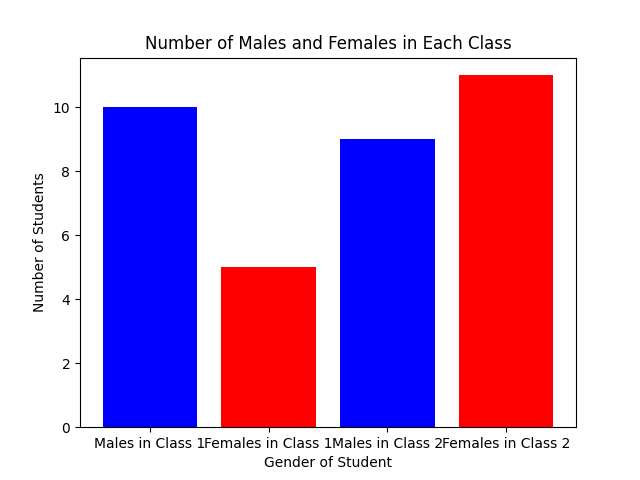
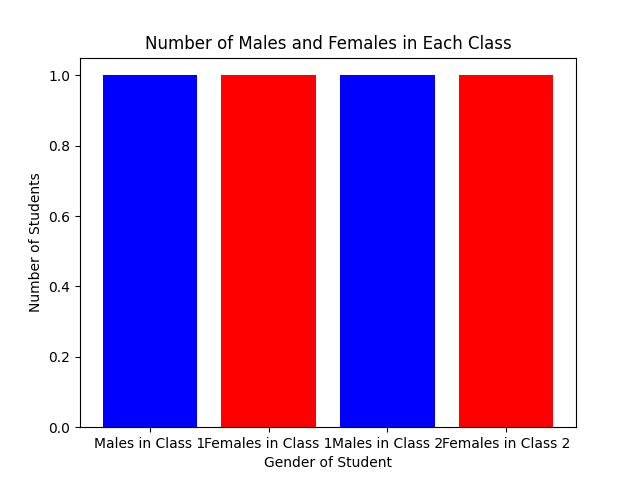
graphing

diff --git a/main.cpp b/main.cpp
@@ -5,9 +5,9 @@
 #include <list>
 #include <vector>
 #include <algorithm>
-#include "Student.cpp"
-#include "Class.cpp"
-#include "Person.cpp"
+#include "Student.h"
+#include "Class.h"
+#include "Person.h"
 
 using namespace std;
 
@@ -199,10 +199,6 @@ void outputResults(Grade grade, vector<Student> &class1, vector<Student> &class2
         }
     }
 
-    // Pass these values to be used in the python script class.py
-    // executePythonScript("python class.py " + to_string(maleCount));
-    // executePythonScript("python class.py " + to_string(femaleCount));
-
     outFile << "\n";
     outFile << "MALES: " << maleCount1 << endl;
     outFile << "FEMALES: " << femaleCount1 << endl;
@@ -226,7 +222,7 @@ void outputResults(Grade grade, vector<Student> &class1, vector<Student> &class2
     outFile << "\n";
 
     // Pass these values to be used in the python script class.py
-    executePythonScript("python class.py " + to_string(maleCount1) + to_string(femaleCount1) + to_string(femaleCount2) + to_string(femaleCount2));
+    executePythonScript("python class.py " + to_string(maleCount1) + " " + to_string(femaleCount1) + " " +to_string(femaleCount2) + " " +to_string(femaleCount2));
 
     outFile.close();
 }

diff --git a/class.py b/class.py
@@ -1,6 +1,11 @@
 import sys
 import matplotlib.pyplot as plt
 
+#classOneMale = 2
+#classOneFemale = 3
+#classTwoFemale = 4
+#classTwoMale = 7
+
 # Extract the values from command-line arguments
 classOneMale, classOneFemale, classTwoMale, classTwoFemale = map(int, sys.argv[1:])
 

diff --git a/testing.cpp b/testing.cpp
@@ -1,7 +1,7 @@
-#include "Person.cpp"
-#include "Student.cpp"
+//#include "Person.cpp"
+//#include "Student.cpp"
 #include "Teacher.h"
-#include "Class.cpp"
+//#include "Class.cpp"
 
 #include <iostream>
 using namespace std;

diff --git a/Class.h b/Class.h
@@ -8,7 +8,7 @@
 #include <vector>
 #include "Student.h"
 #include "Teacher.h"
-#include "Teacher.cpp"
+// #include "Teacher.cpp"
 using namespace std;
 
 /*
